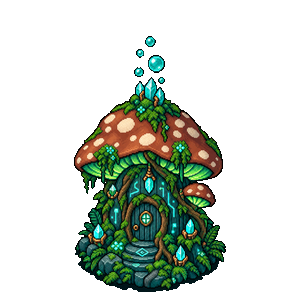
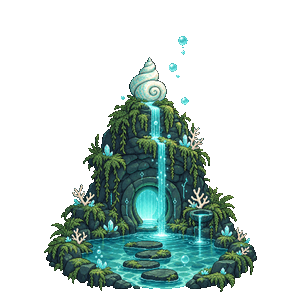
feat(arte): prédio do Refúgio com água e arte própria da Oficina do Foco e do Caderno
- lote-jogos-refugio: casa-gruta com cachoeira e lago no lugar da casinha de
  cogumelo provisória (36-lote-jogos-refugio).
- Oficina (Tique) e Caderno (Sépia): prédios e bustos próprios, canônicos sem
  -b; as -b ficam fora do bundle (instalados/alternativas).
- LOT_ART_BOUNDS re-medido (alfa > 20).

diff --git a/src/assets/soulmon/areas/index.ts b/src/assets/soulmon/areas/index.ts
@@ -45,10 +45,12 @@ import lotePpt from './lote-jogos-ppt.png';
 // arte ao Ateliê da Mente, que ganhou prédio próprio. O arquivo fica em disco
 // (fora do bundle, sem import) para quando a Corrida ganhar lote de novo.
 import lotePasseio from './lote-exploracao-passeio.png';
-// 🛠 04/10/2026: arte PROVISÓRIA da Oficina do Foco (o Observatório) e do Caderno (a Biblioteca) —
-// os mesmos arquivos que os lotes de origem; trocar quando a arte própria chegar (PLANO-OFICINA-FOCO §1).
-import loteOficina from './lote-laboratorio-stats.png';
-import loteCaderno from './lote-hall-biblioteca.png';
+// 🛠 04/10/2026: prédios PRÓPRIOS da Oficina do Foco (oficina de artesão com timers de cristal, NPC Tique)
+// e do Caderno (casinha-tinteiro com pena, NPC Sépia) — `entrada-dono/lote-exploracao-*` (GPT Image 2.5
+// Flare, alfa real), mesmo pós dos lotes-v2 (300², alfa binário). Até aqui emprestavam o Observatório e a
+// Biblioteca. As versões `-b` ficaram fora do bundle (`E:/Soulmon-assets/instalados/alternativas/`).
+import loteOficina from './lote-exploracao-oficina.png';
+import loteCaderno from './lote-exploracao-caderno.png';
 import loteMente from './lote-jogos-mente.png';
 import loteRefugio from './lote-jogos-refugio.png';
 
@@ -59,7 +61,8 @@ export const EXPLORACAO_LOT_ART = { masmorra: loteMasmorra, passeio: lotePasseio
 
 // 🏛 Os três prédios de Jogos (30/09/2026). O Salão herda as duas artes que já
 // eram dele por conteúdo (o PPT; o Dino mudou da Exploração para cá).
-// `mente` e `refugio`: prédios próprios desde 30/09/2026 (leva lotes-v2).
+// `mente` e `refugio`: prédios próprios desde 30/09/2026 (leva lotes-v2). 04/10/2026 (J5): o Refúgio
+// trocou a casinha de cogumelo PROVISÓRIA pela casa-gruta com cachoeira e lago (`entrada-dono/36-*`).
 export const JOGOS_LOT_ART = { salao: lotePpt, mente: loteMente, refugio: loteRefugio } as const;
 
 // ── Guilda, Laboratório e Hall (29/09/2026) ────────────────────────────────

diff --git a/src/assets/soulmon/npcs/index.ts b/src/assets/soulmon/npcs/index.ts
@@ -51,6 +51,8 @@ import npcFGuarda from './npc-f-guarda.png';
 import npcLaboratorioPet from './npc-laboratorio-pet.png';
 import npcLaboratorioStats from './npc-laboratorio-stats.png';
 import npcExploracaoPasseio from './npc-exploracao-passeio.png';
+import npcExploracaoOficina from './npc-exploracao-oficina.png';
+import npcExploracaoCaderno from './npc-exploracao-caderno.png';
 
 /**
  * NPC por SUB-LOJA (minimal-ui F4/F5, decisão do dono 28/09/2026): cada lote
@@ -75,9 +77,10 @@ export const LOT_NPC_ART: Record<string, string> = {
   'arena:feira': npcArenaFeira, // Fanfare (`utils/fairArt.ts` › FAIR_ART_IDS.npc)
   'exploracao:masmorra': npcExploracao,
   'exploracao:passeio': npcExploracaoPasseio, // Brume
-  // 04/10/2026: bustos PROVISÓRIOS (os de `EXTRA_NPC_ART` sem lote) até a arte própria.
-  'exploracao:oficina': npcFFerreira, // Tique (placeholder: busto da Kova)
-  'exploracao:caderno': npcFLua, // Sépia (placeholder: busto da Selene)
+  // 04/10/2026: bustos PRÓPRIOS (`entrada-dono/npc-exploracao-*`, 768², alfa binário); até aqui eram
+  // os da Kova e da Selene. As versões `-b` ficaram fora do bundle (`E:/Soulmon-assets/instalados/alternativas/`).
+  'exploracao:oficina': npcExploracaoOficina, // Tique (grilo-besouro artesão)
+  'exploracao:caderno': npcExploracaoCaderno, // Sépia (lula-coruja escriba)
   // Os três prédios de Jogos (30/09/2026): o Pipo segue no Salão (jogos livres).
   'jogos:salao': npcJogos,
   'jogos:mente': npcJogosMente, // Tessela

diff --git a/src/utils/areaLotGeometry.ts b/src/utils/areaLotGeometry.ts
@@ -30,12 +30,12 @@ export const LOT_ART_BOUNDS: Record<string, LotBounds> = {
   'arena:feira': [0.153, 0.12, 0.847, 0.973],
   'exploracao:masmorra': [0.23, 0, 0.767, 1],
   'exploracao:passeio': [0.243, 0.12, 0.76, 0.973],
-  // Provisórios: reusam os sprites do Observatório e da Biblioteca até a arte própria (PLANO-OFICINA-FOCO §1).
-  'exploracao:oficina': [0.247, 0.12, 0.757, 0.973],
-  'exploracao:caderno': [0.027, 0.03, 0.973, 0.973],
+  // Prédios próprios desde 04/10/2026 (antes reusavam o Observatório e a Biblioteca).
+  'exploracao:oficina': [0.027, 0.07, 0.973, 0.973],
+  'exploracao:caderno': [0.123, 0.027, 0.88, 0.973],
   'jogos:salao': [0.017, 0, 0.98, 1],
   'jogos:mente': [0.227, 0.12, 0.773, 0.973],
-  'jogos:refugio': [0.247, 0.12, 0.753, 0.973],
+  'jogos:refugio': [0.147, 0.12, 0.857, 0.973],
   'laboratorio:evolucao': [0.1, 0.027, 0.9, 0.973],
   'laboratorio:pet': [0.227, 0.217, 0.773, 0.973],
   'laboratorio:stats': [0.247, 0.12, 0.757, 0.973],
